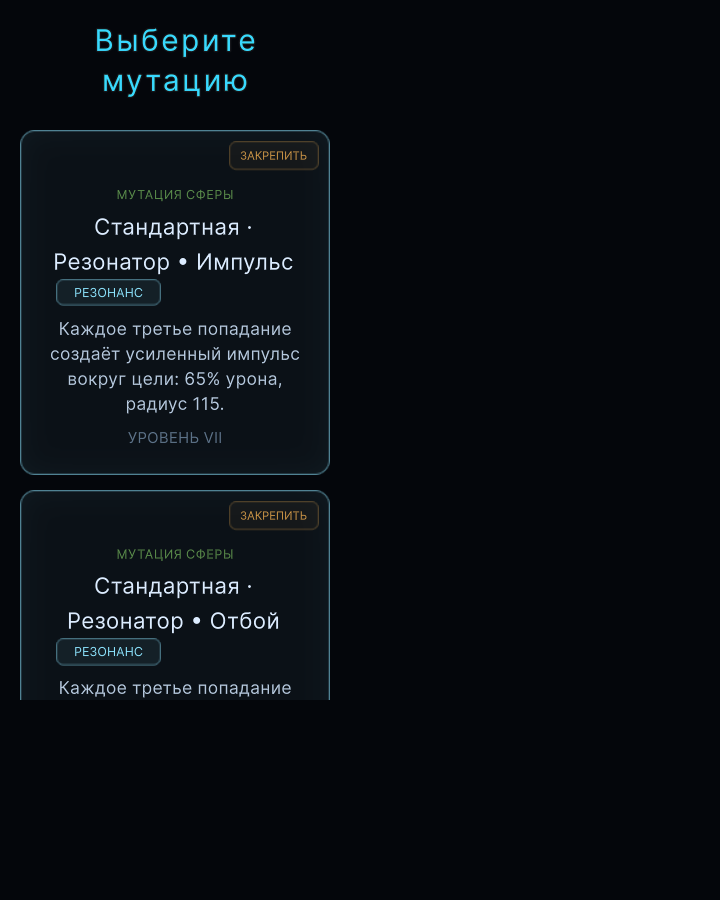
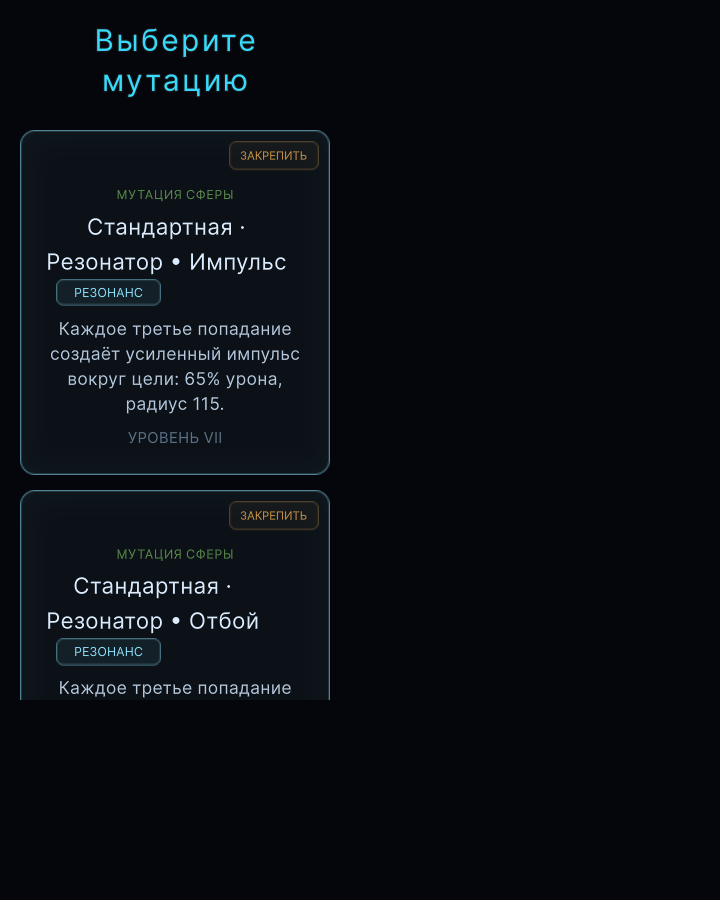
Keep text bounds local after Android menu smoke test

Changed region(s): [[0.0611, 0.6222, 0.3972, 0.7156], [0.0611, 0.2178, 0.3972, 0.3111]]

diff --git a/scripts/check-unity-ui-polish-layout.cs b/scripts/check-unity-ui-polish-layout.cs
@@ -4,7 +4,7 @@ public static class UiPolishLayout {
  sealed class NoBackdrops:INativeUiBackdrops {sealed class Lease:IDisposable{public void Dispose(){}}public IDisposable RegisterNativeBackdrop(VisualElement e,float sigma)=>new Lease();}
  public static object Main(){if(!Application.isPlaying)throw new Exception("Play required");var asm=typeof(NativeUpgradeView).Assembly;var iconType=asm.GetType("EchoSphere.Presentation.NativeContentIcon");var merchantType=asm.GetType("EchoSphere.Presentation.NativeMerchantView");var catalog=Resources.Load<NativeArchiveCatalog>("EchoSphere/NativeArchiveCatalog");
  object Call(object o,string n,params object[] a)=>o.GetType().GetMethod(n,F).Invoke(o,a);
- var host=new GameObject("Owned UI layout acceptance");var panel=ScriptableObject.CreateInstance<PanelSettings>();panel.themeStyleSheet=Resources.Load<ThemeStyleSheet>("EchoSphere/SourceUiTheme");panel.scale=1;panel.sortingOrder=200000;var target=new RenderTexture(720,900,0,RenderTextureFormat.ARGB32);target.Create();panel.targetTexture=target;var doc=host.AddComponent<UIDocument>();doc.panelSettings=panel;var root=doc.rootVisualElement;root.style.position=Position.Absolute;root.style.left=root.style.top=0;root.style.width=720;root.style.height=900;root.style.backgroundColor=new Color(.015f,.025f,.045f);var boundsStyle=Resources.Load<StyleSheet>("EchoSphere/NativeTextBounds");root.styleSheets.Add(boundsStyle);
+ var host=new GameObject("Owned UI layout acceptance");var panel=ScriptableObject.CreateInstance<PanelSettings>();panel.themeStyleSheet=Resources.Load<ThemeStyleSheet>("EchoSphere/SourceUiTheme");panel.scale=1;panel.sortingOrder=200000;var target=new RenderTexture(720,900,0,RenderTextureFormat.ARGB32);target.Create();panel.targetTexture=target;var doc=host.AddComponent<UIDocument>();doc.panelSettings=panel;var root=doc.rootVisualElement;root.style.position=Position.Absolute;root.style.left=root.style.top=0;root.style.width=720;root.style.height=900;root.style.backgroundColor=new Color(.015f,.025f,.045f);
  var cases=new List<(bool ru,float w,string branch)>();foreach(bool ru in new[]{true,false})foreach(float w in new[]{280f,360f,640f})foreach(SphereId sphere in Enum.GetValues(typeof(SphereId)))foreach(var branch in SphereEvolutionCatalog.GetBranches(sphere))cases.Add((ru,w,branch.Id));
  Application.runInBackground=true;EditorApplication.isPaused=false;int index=-1,frame=0,last=-1,checks=0,layouts=0;double deadline=EditorApplication.timeSinceStartup+240;NativeUpgradeView upgrade=null;object merchant=null;string phase="icons";var log=new List<string>();Directory.CreateDirectory("Library/ui-polish");void Check(bool ok,string why){checks++;if(!ok)throw new Exception(why);}
  void Capture(string name){var old=RenderTexture.active;var image=new Texture2D(target.width,target.height,TextureFormat.RGBA32,false);try{RenderTexture.active=target;image.ReadPixels(new Rect(0,0,target.width,target.height),0,0);image.Apply();File.WriteAllBytes("Library/ui-polish/"+name+".png",image.EncodeToPNG());}finally{RenderTexture.active=old;UnityEngine.Object.DestroyImmediate(image);}}

diff --git a/UnityProject/Assets/EchoSphere/Scripts/Presentation/NativePauseStatsView.cs b/UnityProject/Assets/EchoSphere/Scripts/Presentation/NativePauseStatsView.cs
@@ -51,7 +51,7 @@ namespace EchoSphere.Presentation
             label.style.marginLeft=label.style.marginRight=label.style.marginTop=label.style.marginBottom=0;
             label.style.paddingLeft=label.style.paddingRight=label.style.paddingTop=label.style.paddingBottom=0;
             label.style.fontSize=size;label.style.color=C(color);label.style.letterSpacing=spacing*100/size;
-            label.style.flexShrink=1;label.style.minWidth=0;label.style.maxWidth=Length.Percent(100);label.style.overflow=Overflow.Hidden;label.style.textOverflow=TextOverflow.Ellipsis;label.style.whiteSpace=wrap?WhiteSpace.Normal:WhiteSpace.NoWrap;
+            label.style.flexShrink=0;label.style.minWidth=0;label.style.whiteSpace=wrap?WhiteSpace.Normal:WhiteSpace.NoWrap;
             if(!wrap)label.style.height=(float)(size*line);
             ConfigureFont(label,weight,line);
         }

diff --git a/UnityProject/Assets/EchoSphere/Scripts/Presentation/NativePanelLease.cs b/UnityProject/Assets/EchoSphere/Scripts/Presentation/NativePanelLease.cs
@@ -57,7 +57,6 @@ namespace EchoSphere.Presentation
                 if(layout!=null&&Document.visualTreeAsset!=layout)Document.visualTreeAsset=layout;
                 Document.enabled=true;
                 Document.rootVisualElement.style.overflow=Overflow.Hidden;
-                var textBounds=Resources.Load<StyleSheet>("EchoSphere/NativeTextBounds");if(textBounds!=null&&!Document.rootVisualElement.styleSheets.Contains(textBounds))Document.rootVisualElement.styleSheets.Add(textBounds);
             }catch{if(_continuity!=null)_continuity.Users--;else UnityEngine.Object.Destroy(Panel);throw;}
         }
         public void Dispose()

diff --git a/GPT/UNITY_UI_COMBAT_POLISH_2026-11-04.md b/GPT/UNITY_UI_COMBAT_POLISH_2026-11-04.md
@@ -8,7 +8,7 @@ Unity Editor 6000.6.1f1; Unity CLI beta.15 retained by explicit user decision. N
 1. Drones: ten cached family-specific mechanical hulls and mirrored moving side pieces. Existing sphere family colors; visual attack pulse originates from a real attack, not an idle repeating fire animation. Targeting/damage unchanged.
 2. Shields: segmented thin membrane, charge indicators and impact/recast ring; passive charge-only shields are also visible. Gameplay shielding unchanged.
 3. Lightning: pooled hot core, colored halo and connected secondary strikes; shared by ability and Chain presentation, with branch styles. No extra per-bolt blur passes.
-4. Text: shared native panel bounds and shrink rules, wrapping mutation names, separate lock-button row, constrained vertical scrolling. This prevents known horizontal overflow; it is not an exhaustive visual acceptance of every screen on every device.
+4. Text: local wrapping mutation names, separate lock-button row, constrained vertical scrolling and explicit merchant price widths. A device smoke test found that global percentage-width/ellipsis rules clipped intrinsic menu labels; those rules were removed, preserving the existing shared label sizing. This is not exhaustive visual acceptance of every screen.
 5. Archive: record enemy/boss encounter at all three actual registration paths, before an enemy can die between periodic scans. Discovery persistence also consumes event-recorded pending rewards. Correct section-specific locked copy and regional lore conditions. Existing IDs/reward rules retained.
 6. Boss projectiles: already-fired bullets tick once in the independent phase while their boss is frozen. Global pause/time-stop rules retained; death cleanup unchanged.
 7. Controls: 100% now maps to the former 75% control dimensions, including placement and joystick feedback; both handedness modes. Fresh preference default is 100%; existing saved preferences are not overwritten. HUD scale is not recalibrated by this change.
@@ -38,3 +38,5 @@ Physical Android visual/performance acceptance remains open, including safe area
 CI and final commit are recorded in the cycle's final response. Source and report commit together; new-desing remains unchanged. Build/recovery leftovers are left untouched.
 
 Continuation: ECHO SPHERE, unity-migration, use the HEAD containing this report. UI/combat polish implemented; read this report and the three mandatory GPT documents. Keep CLI beta.15 and Editor 6000.6.1f1. Next: Android acceptance of the new merchant, controls/mutation scrolling, visual effects and remaining text screens; build a fresh APK when requested. Do not use the phone without renewed authorization.
+## Device follow-up
+The user connected Xiaomi 11T by USB and authorized installation/testing. First release build from 0c7bada0 installed successfully with data retained, revealing global text-rule truncation on the real main menu. The correction removes that stylesheet and restores shared label sizing; mutation/shop constraints remain local. A fresh corrected APK replaces the intermediate build. The existing saved run at 20:02 must be preserved. Final device evidence is recorded below when verification completes.
